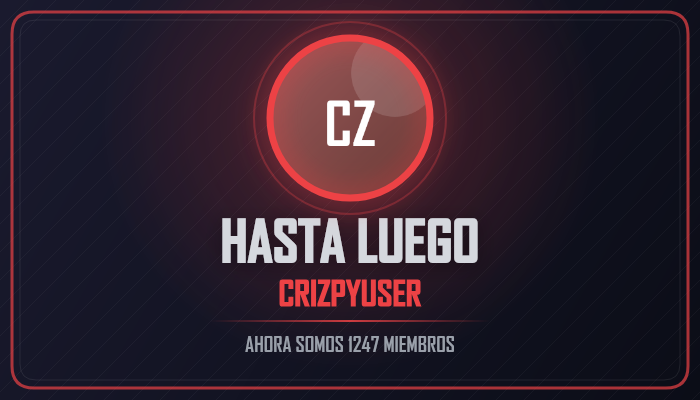
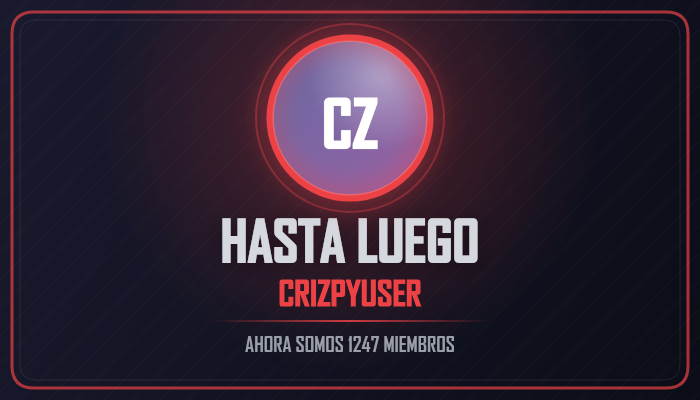
docs: update architecture metrics, runtimeCache details and Canvas 2.0 previews

Changed region(s): [[0.36, 0.03, 0.66, 0.54]]

diff --git a/README.md b/README.md
@@ -38,12 +38,12 @@
 
 | Métrica del Proyecto | Alcance |
 | --- | --- |
-| **Comandos Slash** | **86** archivos de comando (`85+` comandos por dominio) |
+| **Comandos Slash & Context** | **86** Slash Commands + **4** Context Menus (**90** comandos globales registrados) |
 | **Eventos de Discord** | **27** listeners reactivos (`messageCreate`, `voiceStateUpdate`, `guildMemberAdd`, etc.) |
-| **Interacciones Globales** | **8** manejadores persistentes (botones, select menus, modales, tickets DM) |
-| **Modelos de Datos** | **39** esquemas Mongoose con índices compuestos |
-| **Utilidades Core** | **25** módulos especializados (Canvas, caché TTL, voz, AutoMod, permisos) |
-| **Suite de Tests** | Pruebas unitarias nativas con `node:test` |
+| **Interacciones Globales** | **11** manejadores persistentes (botones, select menus, modales, tickets DM) |
+| **Modelos de Datos** | **39** esquemas Mongoose con índices compuestos y colecciones TTL |
+| **Utilidades Core** | **32** módulos especializados (Canvas 2.0, `runtimeCache`, caché LRU de imágenes, voz, AutoMod, permisos) |
+| **Suite de Tests** | **51** pruebas unitarias nativas con `node:test` (11 suites) |
 
 ---
 
@@ -73,8 +73,8 @@ flowchart TB
     subgraph CORE["2. Enrutamiento, Guardias y Cachés en RAM"]
         RTR["interactionCreate + interactionMap"]
         GUARD["Bloqueo DM + Candados Set() + safe-regex"]
-        CACHE["Cachés TTL (premiumCache, configCache, avatarCache)"]
-        BATCH["Acumuladores (progressCache, voiceTracker)"]
+        CACHE["runtimeCache + premiumCache + avatar/bgCache LRU"]
+        BATCH["Fast-path Misiones + voiceTracker"]
         SWEEP["Memory Sweepers (1h Discord.js + 5m TTL)"]
     end
 
@@ -83,11 +83,11 @@ flowchart TB
         TKT["Tickets (Private Threads + HTML)"]
         ECO["Economía, Duelos PvP & Casino"]
         LVL["Niveles, Voz, TempVoice & Social"]
-        CNV["Motor Canvas 2D (@napi-rs/canvas)"]
+        CNV["Motor Canvas 2.0 (@napi-rs/canvas)"]
     end
 
     subgraph INFRA["4. Persistencia y Producción"]
-        MDB[("MongoDB Atlas\nmaxPoolSize: 50 + Índices")]
+        MDB[("MongoDB Atlas\nmaxPoolSize: 20 + Índices")]
         VPS["Oracle Cloud Ubuntu VPS\nPM2 + systemd + 1 GB Swap"]
     end
 
@@ -106,16 +106,17 @@ flowchart TB
 ```text
 crizpy-bot/
 ├── index.js                 # Arranque, Express/Top.gg, Mongoose, Sweepers y graceful shutdown
-├── deploy-commands.js       # Registro global de Slash Commands
+├── deploy-commands.js       # Registro global de Slash Commands y Context Menus
 ├── deploy-guild.js          # Registro rápido en servidor de pruebas
 ├── scripts/                 # Healthcheck y respaldo automatizado de MongoDB
 ├── src/
 │   ├── commands/            # 86 Slash Commands organizados por dominio
+│   ├── contextMenus/        # 4 Context Menus nativos de Discord
 │   ├── events/              # 27 listeners del Gateway de Discord
-│   ├── interactions/        # 8 manejadores globales (tickets, ayuda, tienda, embeds, roles)
+│   ├── interactions/        # 11 manejadores globales (tickets, ayuda, tienda, embeds, roles, DM)
 │   ├── models/              # 39 esquemas e índices compuestos en Mongoose
-│   └── utils/               # 25 utilidades (Canvas, caché TTL, voz, AutoMod, permisos)
-└── test/                    # Pruebas unitarias con node:test
+│   └── utils/               # 32 utilidades (Canvas 2.0, runtimeCache, LRU, voz, AutoMod, permisos)
+└── test/                    # 51 pruebas unitarias (11 suites) con node:test
 ```
 
 ---
@@ -153,23 +154,19 @@ sequenceDiagram
 
 ## Capturas del Motor Gráfico (`@napi-rs/canvas`)
 
-Las siguientes imágenes fueron renderizadas con los generadores reales de `CriZpy-Bot` (`canvasWelcomeCard.js`, `canvasFarewellCard.js` y `canvasVoteCrate.js`), usando la **configuración por defecto** del bot y un avatar de muestra (en producción se usa el avatar real del usuario):
+Las siguientes imágenes fueron renderizadas con los generadores reales de `CriZpy-Bot` (`canvasWelcomeCard.js`, `canvasFarewellCard.js`, `canvasVoteCrate.js` y `canvasCardsExtra.js`), usando la **configuración por defecto** del bot y un avatar de muestra (en producción se usa el avatar real del usuario):
 
 | Tarjeta de Bienvenida (`/bienvenida canvas`) | Tarjeta de Despedida (`/despedida canvas`) |
 | :---: | :---: |
 | ![Preview Bienvenida Canvas](./assets/preview-welcome.png) | ![Preview Despedida Canvas](./assets/preview-farewell.png) |
 | **Avatar circular, textos y aro configurables** | **Fondo degradado, avatar en escala de grises y glow** |
 
-<div align="center">
+| Recompensa por Voto (`/votar` + `/caja abrir`) | Bola 8 Mística (`/bola8`) |
+| :---: | :---: |
+| ![Preview Caja Legendaria Canvas](./assets/preview-crate.png) | ![Preview Bola 8 Canvas](./assets/preview-8ball.png) |
+| **Gradiente radial, rareza dinámica y auto-escalado tipográfico** | **Esfera 3D, ventana neón y respuesta con wrapping automático** |
 
-| Recompensa por Voto (`/votar` + `/caja abrir`) |
-| :---: |
-| ![Preview Caja Legendaria Canvas](./assets/preview-crate.png) |
-| **Gradiente radial, rareza dinámica y auto-escalado tipográfico** |
-
-</div>
-
-Además de estos generadores, el bot produce en vivo tarjetas Canvas para `/info` (3 pestañas interactivas), `/perfil`, `/rank`, `/economia balance`, `/economia trabajar`, `/economia pagar`, `/crimen`, `/robar`, `/duelo`, `/casarse`, `/ship`, `/bola8`, `/sorteo`, `/cumpleaños`, `/top` y `/casino` (Blackjack, Ruleta, Moneda).
+Además de estos generadores, el bot produce en vivo tarjetas Canvas 2.0 para `/info` (3 pestañas interactivas), `/perfil`, `/rank`, `/economia` (`balance`, `trabajar`, `pagar`, `tienda`), `/crimen`, `/robar`, `/duelo`, `/casarse`, `/matrimonio`, `/ship`, `/confesar`, `/recordatorio`, `/misiones`, `/reputacion`, `/sorteo` (ganador VIP), `/cumpleaños`, `/top` y `/casino` (Blackjack, Ruleta, Tragamonedas, Moneda).
 
 ---
 
@@ -181,7 +178,7 @@ Además de estos generadores, el bot produce en vivo tarjetas Canvas para `/info
 | **Tickets en Hilos Privados** | Paneles configurables (`/ticket panel`) que abren **Private Threads** en el canal, soporte por **DM directo** al bot (`Ticket-MD`), sistema de reclamo (`claim`) y exportación automática de transcripciones HTML (`discord-html-transcripts`). |
 | **Economía, Casino & Duelos** | Cartera, racha diaria con ventana de `48h` y Cajas Sorpresa cada 7 días, tienda con roles, `/duelo` PvP 1v1 por turnos con botones, misiones diarias RPG y `/casino` (Blackjack, Ruleta, Tragamonedas, Moneda). |
 | **Niveles, Voz & TempVoice** | XP por chat con alertas configurables, roles automáticos por nivel (modos `stack` y `replace`), tracking de horas en voz excluyendo AFK/deaf/bots (`/top voz`), canales de voz temporales privados (`/tempvoice`) y `/voicerole`. |
-| **Comunidad & Utilidad** | `/starboard` con caché anti-duplicados, `/highlight` por DM, canales solo-multimedia (`/multimedia`), `/recordatorio` con botón de listo y auto-snooze, `/sorteo`, `/cumpleaños`, `/casarse`, `/encuesta`, `/formulario` y constructor visual de embeds. |
+| **Comunidad & Utilidad** | `/starboard` con caché anti-duplicados, `/highlight` por DM, canales solo-multimedia (`/multimedia`), `/recordatorio` con botón de listo y auto-snooze, `/sorteo`, `/confesar`, `/cumpleaños`, `/casarse`, `/encuesta`, `/formulario` y constructor visual de embeds. |
 | **Modelo Freemium** | Control centralizado (`requirePremium` con caché de 5 min) y cuotas diarias (`DailyUsage`), desbloqueando límites expandidos (Top 100, 15 roles de nivel, apuestas sin tope, Canvas personalizados) y recompensas de **Premium-Lite** al votar en Top.gg. |
 
 ---
@@ -189,7 +186,8 @@ Además de estos generadores, el bot produce en vivo tarjetas Canvas para `/info
 ## Decisiones de Ingeniería y Resiliencia
 
 - **Atomicidad en MongoDB:** Todas las mutaciones de saldo, XP, tickets y TempVoice usan operadores atómicos (`$inc`, `$set`, `$push`, `$pull`, `findOneAndUpdate`) y candados en memoria (`Set`) para erradicar *double-spending* y *VersionError*.
-- **Protección contra cuelgues de CDN:** `canvasHelper.js` precarga una imagen fallback en RAM al iniciar, cachea avatares por 5 minutos y aplica `AbortController` con timeout de `4s` para evitar que una imagen lenta congele las interacciones.
+- **Motor Canvas Resiliente y Asíncrono:** `canvasHelper.js` precarga un fallback vectorial `256x256` en RAM al iniciar, mantiene caché LRU de instancias `Image` ya decodificadas (`10m` para avatares, `30m` para fondos personalizados con retención `stale-on-error` de `6h`), deduplica peticiones *in-flight*, aplica recorte `object-fit: cover` sin deformar proporciones y ejecuta `canvas.encode('png')` de forma asíncrona para no bloquear el event loop.
+- **Caché Unificada en RAM (`runtimeCache.js` + Fast-Path de Misiones):** Cachea en memoria (incluyendo resultados vacíos `null`) las consultas frecuentes de `StickyMessage`, `ReactionRole`, `TempVoice`, `VoiceRole`, `ServerLog` y `Guild` con invalidación inmediata al modificar ajustes desde comandos, reduciendo drásticamente las lecturas a MongoDB Atlas en eventos de chat, voz y reacciones.
 - **Control estricto de memoria (VPS 1 GB RAM):** Sweepers de Discord.js cada 1 hora, limpieza de cachés TTL cada 5 minutos, remoción del intent innecesario `GuildPresences`, Swap de `1 GB` y reinicio programado con `pm2`.
 - **Temporizadores sin overflow:** Migración de `setTimeout` largos (vulnerables al límite de 32 bits / >24 días) a `node-cron` persistente en MongoDB para `TempBan` y recordatorios.
 - **Observabilidad:** Captura global de `unhandledRejection` / `uncaughtException` con reporte directo al canal de error-logs, además de métricas de rendimiento en vivo (`!rendimiento`).
